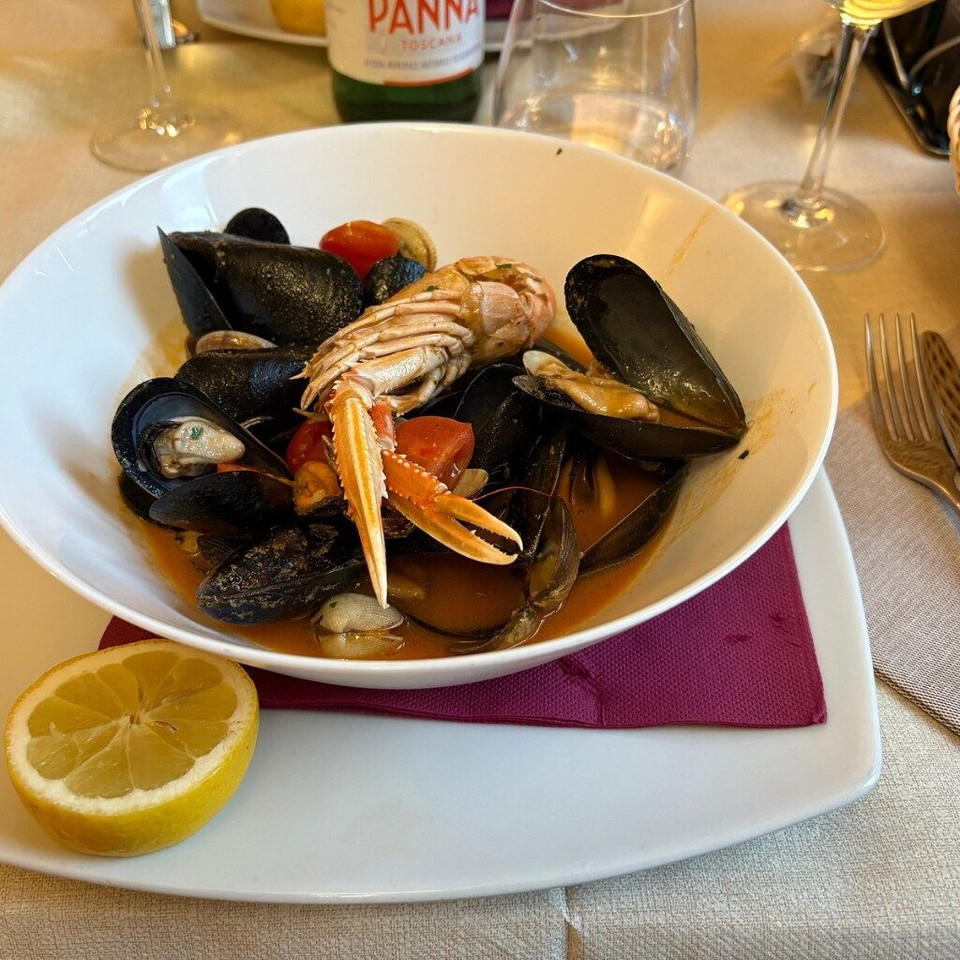
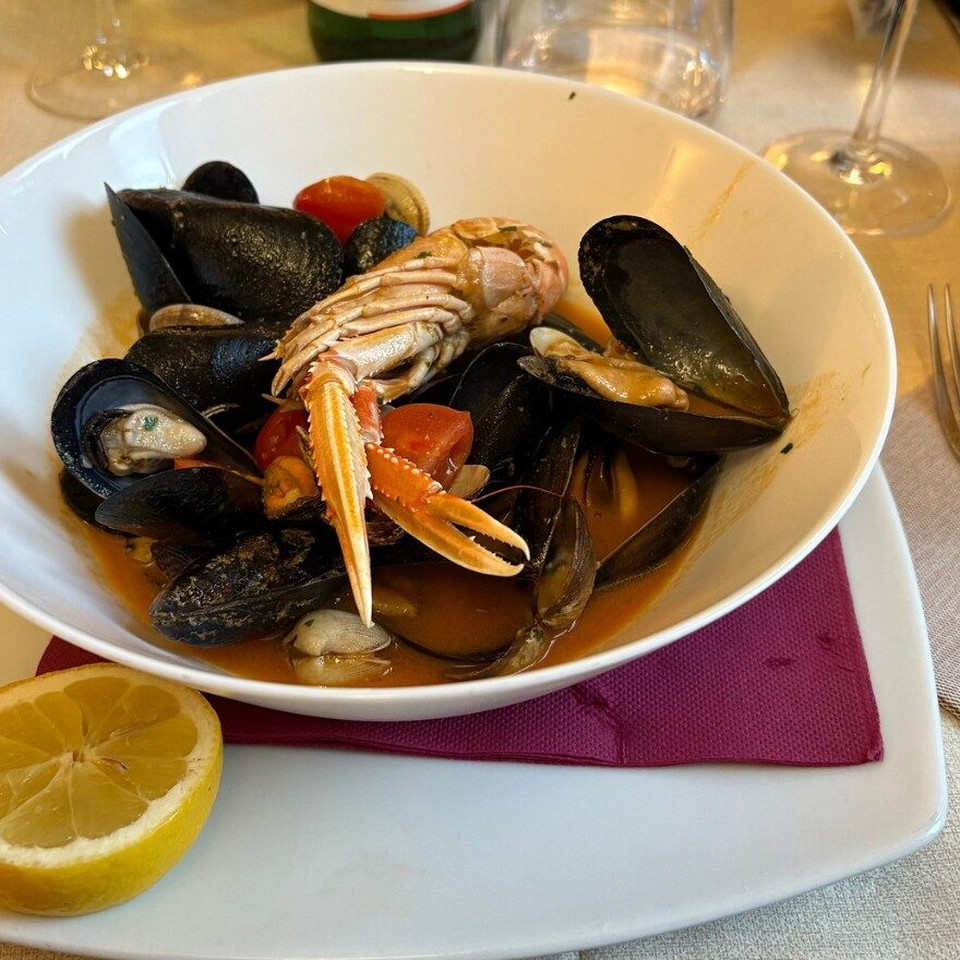
Retune welcome email grid crops for tighter food framing.
Bottom-anchor astice, zoom risotto and guazzetto, and crop polenta on the dish band.

diff --git a/scripts/crop-welcome-grid.py b/scripts/crop-welcome-grid.py
@@ -1,0 +1,77 @@
+#!/usr/bin/env python3
+"""Square 960×960 crops for the welcome-email 2×2 taste grid."""
+from __future__ import annotations
+
+from pathlib import Path
+
+from PIL import Image
+
+ROOT = Path(__file__).resolve().parents[1]
+OUT = ROOT / 'public' / 'email'
+SIZE = 960
+
+# zoom: fraction of min(w,h); x/y: 0=top-left … 1=bottom-right anchor for crop window
+PRESETS = {
+    'grid-30.jpg': {
+        'src': 'public/restaurant/17-astice-sera.jpg',
+        'zoom': 0.88,
+        'x': 0.52,
+        'y': 1.0,
+    },
+    'grid-05.jpg': {
+        'src': 'public/restaurant/08-risotto.jpg',
+        'zoom': 0.62,
+        'x': 0.52,
+        'y': 0.40,
+    },
+    'grid-12.jpg': {
+        'src': 'public/restaurant/16-guazzetto-mare.jpg',
+        'zoom': 0.86,
+        'x': 0.50,
+        'y': 0.52,
+    },
+    'grid-23.jpg': {
+        'src': 'public/restaurant/10-polenta.jpg',
+        'left': 185,
+        'top': 40,
+        'side': 650,
+    },
+}
+
+
+def smart_square(src: Path, out: Path, *, zoom: float, x: float, y: float) -> None:
+    im = Image.open(src).convert('RGB')
+    w, h = im.size
+    side = max(1, int(min(w, h) * zoom))
+    max_left = w - side
+    max_top = h - side
+    left = int(max_left * x) if max_left > 0 else 0
+    top = int(max_top * y) if max_top > 0 else 0
+    im = im.crop((left, top, left + side, top + side)).resize(
+        (SIZE, SIZE), Image.Resampling.LANCZOS
+    )
+    im.save(out, 'JPEG', quality=90, optimize=True, progressive=True, subsampling=0)
+
+
+def manual_square(src: Path, out: Path, *, left: int, top: int, side: int) -> None:
+    im = Image.open(src).convert('RGB')
+    im = im.crop((left, top, left + side, top + side)).resize(
+        (SIZE, SIZE), Image.Resampling.LANCZOS
+    )
+    im.save(out, 'JPEG', quality=90, optimize=True, progressive=True, subsampling=0)
+
+
+def main() -> None:
+    for name, cfg in PRESETS.items():
+        src = ROOT / cfg['src']
+        out = OUT / name
+        if 'left' in cfg:
+            manual_square(src, out, left=cfg['left'], top=cfg['top'], side=cfg['side'])
+        else:
+            smart_square(src, out, zoom=cfg['zoom'], x=cfg['x'], y=cfg['y'])
+        kb = out.stat().st_size / 1024
+        print(f'{name} <- {cfg["src"]} ({kb:.0f} KB)')
+
+
+if __name__ == '__main__':
+    main()
